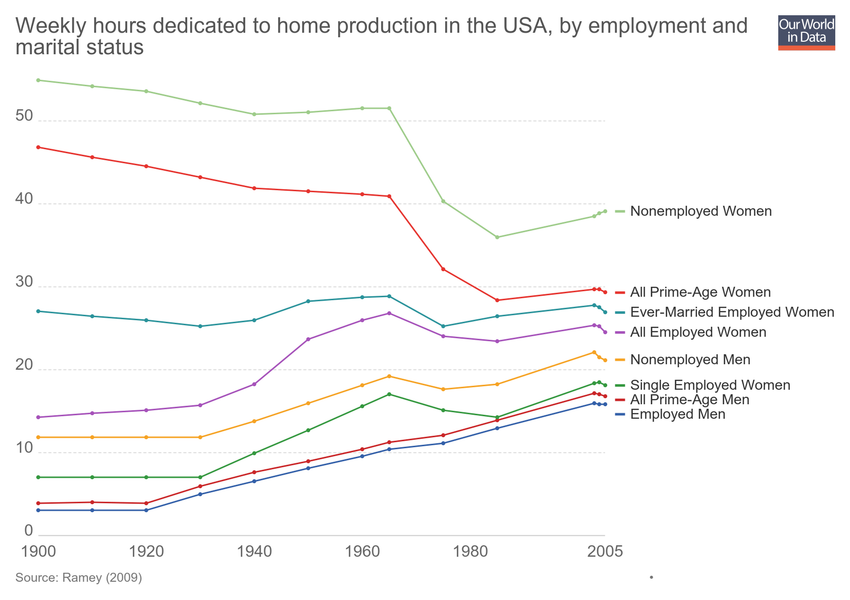
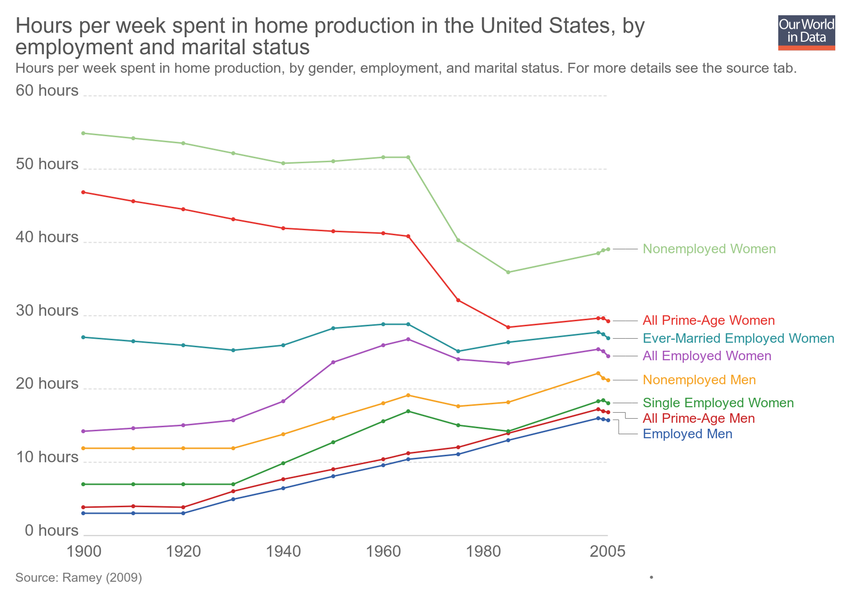
Updating chart weekly-hours-dedicated-to-home-production-in-the-usa-by-employment-and-marriage-status

diff --git a/grapher/weekly-hours-dedicated-to-home-production-in-the-usa-by-employment-and-marriage-status.html b/grapher/weekly-hours-dedicated-to-home-production-in-the-usa-by-employment-and-marriage-status.html
@@ -1,4 +1,4 @@
-<!doctype html><html><head><meta name="viewport" content="width=device-width, initial-scale=1" /><title>Weekly hours dedicated to home production in the USA, by employment and marital status - Our World in Data</title><meta name="description" content="An interactive visualization from Our World in Data." /><link rel="canonical" href="https://ourworldindata.org/grapher/weekly-hours-dedicated-to-home-production-in-the-usa-by-employment-and-marriage-status" /><meta property="fb:app_id" content="1149943818390250" /><meta property="og:url" content="https://ourworldindata.org/grapher/weekly-hours-dedicated-to-home-production-in-the-usa-by-employment-and-marriage-status" /><meta property="og:title" content="Weekly hours dedicated to home production in the USA, by employment and marital status" /><meta property="og:description" content="An interactive visualization from Our World in Data." /><meta property="og:image" content="https://ourworldindata.org/grapher/exports/weekly-hours-dedicated-to-home-production-in-the-usa-by-employment-and-marriage-status.png?v=1" /><meta property="og:image:width" content="850" /><meta property="og:image:height" content="600" /><meta property="og:site_name" content="Our World in Data" /><meta name="twitter:card" content="summary_large_image" /><meta name="twitter:site" content="@OurWorldInData" /><meta name="twitter:creator" content="@OurWorldInData" /><meta name="twitter:title" content="Weekly hours dedicated to home production in the USA, by employment and marital status" /><meta name="twitter:description" content="An interactive visualization from Our World in Data." /><meta name="twitter:image" content="https://ourworldindata.org/grapher/exports/weekly-hours-dedicated-to-home-production-in-the-usa-by-employment-and-marriage-status.png?v=1" /><style>
+<!doctype html><html><head><meta name="viewport" content="width=device-width, initial-scale=1" /><title>Hours per week spent in home production in the United States, by employment and marital status - Our World in Data</title><meta name="description" content="Hours per week spent in home production, by gender, employment, and marital status. For more details see the source tab." /><link rel="canonical" href="https://ourworldindata.org/grapher/weekly-hours-dedicated-to-home-production-in-the-usa-by-employment-and-marriage-status" /><meta property="fb:app_id" content="1149943818390250" /><meta property="og:url" content="https://ourworldindata.org/grapher/weekly-hours-dedicated-to-home-production-in-the-usa-by-employment-and-marriage-status" /><meta property="og:title" content="Hours per week spent in home production in the United States, by employment and marital status" /><meta property="og:description" content="Hours per week spent in home production, by gender, employment, and marital status. For more details see the source tab." /><meta property="og:image" content="https://ourworldindata.org/grapher/exports/weekly-hours-dedicated-to-home-production-in-the-usa-by-employment-and-marriage-status.png?v=4" /><meta property="og:image:width" content="850" /><meta property="og:image:height" content="600" /><meta property="og:site_name" content="Our World in Data" /><meta name="twitter:card" content="summary_large_image" /><meta name="twitter:site" content="@OurWorldInData" /><meta name="twitter:creator" content="@OurWorldInData" /><meta name="twitter:title" content="Hours per week spent in home production in the United States, by employment and marital status" /><meta name="twitter:description" content="Hours per week spent in home production, by gender, employment, and marital status. For more details see the source tab." /><meta name="twitter:image" content="https://ourworldindata.org/grapher/exports/weekly-hours-dedicated-to-home-production-in-the-usa-by-employment-and-marriage-status.png?v=4" /><style>
         html, body {
             height: 100%;
             margin: 0;
@@ -20,8 +20,8 @@
         }
     </style><noscript><style>
                     figure { display: none !important; }
-                </style></noscript><link rel="stylesheet" href="https://ourworldindata.org/grapher/assets/commons.bundle.e61261d2881056c44b1d.css" /><link rel="preload" href="/grapher/data/variables/1639.json?v=1" as="fetch" crossorigin /></head><body class="singleChart"><figure data-grapher-src="/grapher/weekly-hours-dedicated-to-home-production-in-the-usa-by-employment-and-marriage-status"></figure><noscript id="fallback"><img src="/grapher/exports/weekly-hours-dedicated-to-home-production-in-the-usa-by-employment-and-marriage-status.svg" /><p>Interactive visualization requires JavaScript</p></noscript><script src="https://cdn.polyfill.io/v2/polyfill.min.js?features=es6,fetch"></script><script src="https://ourworldindata.org/grapher/assets/commons.bundle.e61261d2881056c44b1d.js"></script><script src="https://ourworldindata.org/grapher/assets/charts.bundle.e61261d2881056c44b1d.js"></script><script>
-        var jsonConfig = {"id":506,"map":{"mode":"specific","projection":"World","targetYear":1980,"timeRanges":[],"variableId":1636,"defaultYear":1980,"isColorblind":false,"timelineMode":"slider","timeTolerance":1,"legendStepSize":20,"targetYearMode":"latest","baseColorScheme":"BuGn","colorSchemeInvert":false,"colorSchemeLabels":[],"colorSchemeValues":[],"defaultProjection":"World","legendDescription":"","legendOrientation":"portrait","customColorsActive":false,"customNumericColors":[],"customCategoryColors":[],"customCategoryLabels":[],"customHiddenCategories":[]},"tab":"chart","note":"","slug":"weekly-hours-dedicated-to-home-production-in-the-usa-by-employment-and-marriage-status","type":"LineChart","logos":["OWD"],"title":"Weekly hours dedicated to home production in the USA, by employment and marital status","units":"[{\"property\":\"y\",\"visible\":true,\"title\":\"\",\"unit\":\"\",\"format\":\"\"}]","xAxis":{"scaleType":"linear"},"yAxis":{"min":0,"scaleType":"linear","labelDistance":0},"margins":{"top":10,"left":60,"right":10,"bottom":10},"version":1,"timeline":null,"hasMapTab":false,"originUrl":"","stackMode":null,"dimensions":[{"id":448,"order":0,"chartId":506,"display":{"name":"","unit":"","tolerance":5,"isProjection":false},"property":"y","targetYear":null,"variableId":1639}],"entityType":"country","hideLegend":false,"hasChartTab":true,"isPublished":true,"selectedData":[{"index":0,"entityId":22778},{"index":0,"entityId":22777},{"index":0,"entityId":22776},{"index":0,"entityId":22775},{"index":0,"entityId":22774},{"index":0,"entityId":22773},{"index":0,"entityId":22772},{"index":0,"entityId":22771}],"internalNotes":"","addCountryMode":"add-country","activeLegendKeys":null,"group-by-variables":false,"hideRelativeToggle":false};
+                </style></noscript><link rel="stylesheet" href="https://ourworldindata.org/grapher/assets/commons.bundle.e61261d2881056c44b1d.css" /><link rel="preload" href="/grapher/data/variables/1639.json?v=4" as="fetch" crossorigin /></head><body class="singleChart"><figure data-grapher-src="/grapher/weekly-hours-dedicated-to-home-production-in-the-usa-by-employment-and-marriage-status"></figure><noscript id="fallback"><img src="/grapher/exports/weekly-hours-dedicated-to-home-production-in-the-usa-by-employment-and-marriage-status.svg" /><p>Interactive visualization requires JavaScript</p></noscript><script src="https://cdn.polyfill.io/v2/polyfill.min.js?features=es6,fetch"></script><script src="https://ourworldindata.org/grapher/assets/commons.bundle.e61261d2881056c44b1d.js"></script><script src="https://ourworldindata.org/grapher/assets/charts.bundle.e61261d2881056c44b1d.js"></script><script>
+        var jsonConfig = {"id":506,"map":{"projection":"World","targetYear":1980,"variableId":1636,"timeTolerance":1,"baseColorScheme":"BuGn","colorSchemeInvert":false,"colorSchemeLabels":[],"colorSchemeValues":[],"legendDescription":"","customColorsActive":false,"customNumericColors":[],"customCategoryColors":[],"customCategoryLabels":[],"customHiddenCategories":[]},"tab":"chart","note":"","slug":"weekly-hours-dedicated-to-home-production-in-the-usa-by-employment-and-marriage-status","type":"LineChart","title":"Hours per week spent in home production in the United States, by employment and marital status","xAxis":{"scaleType":"linear"},"yAxis":{"max":60,"min":0,"scaleType":"linear","labelDistance":0},"version":4,"subtitle":"Hours per week spent in home production, by gender, employment, and marital status. For more details see the source tab.","hasMapTab":false,"originUrl":"","stackMode":null,"dimensions":[{"display":{"name":"","unit":"hours","shortUnit":"hours","tolerance":5,"isProjection":false},"property":"y","variableId":1639}],"entityType":"country","hideLegend":false,"hasChartTab":true,"isPublished":true,"selectedData":[{"index":0,"entityId":22778},{"index":0,"entityId":22777},{"index":0,"entityId":22776},{"index":0,"entityId":22775},{"index":0,"entityId":22774},{"index":0,"entityId":22773},{"index":0,"entityId":22772},{"index":0,"entityId":22771}],"internalNotes":"","addCountryMode":"add-country","hideRelativeToggle":false};
         var figure = document.getElementsByTagName("figure")[0];
         try {
             window.App = {};
